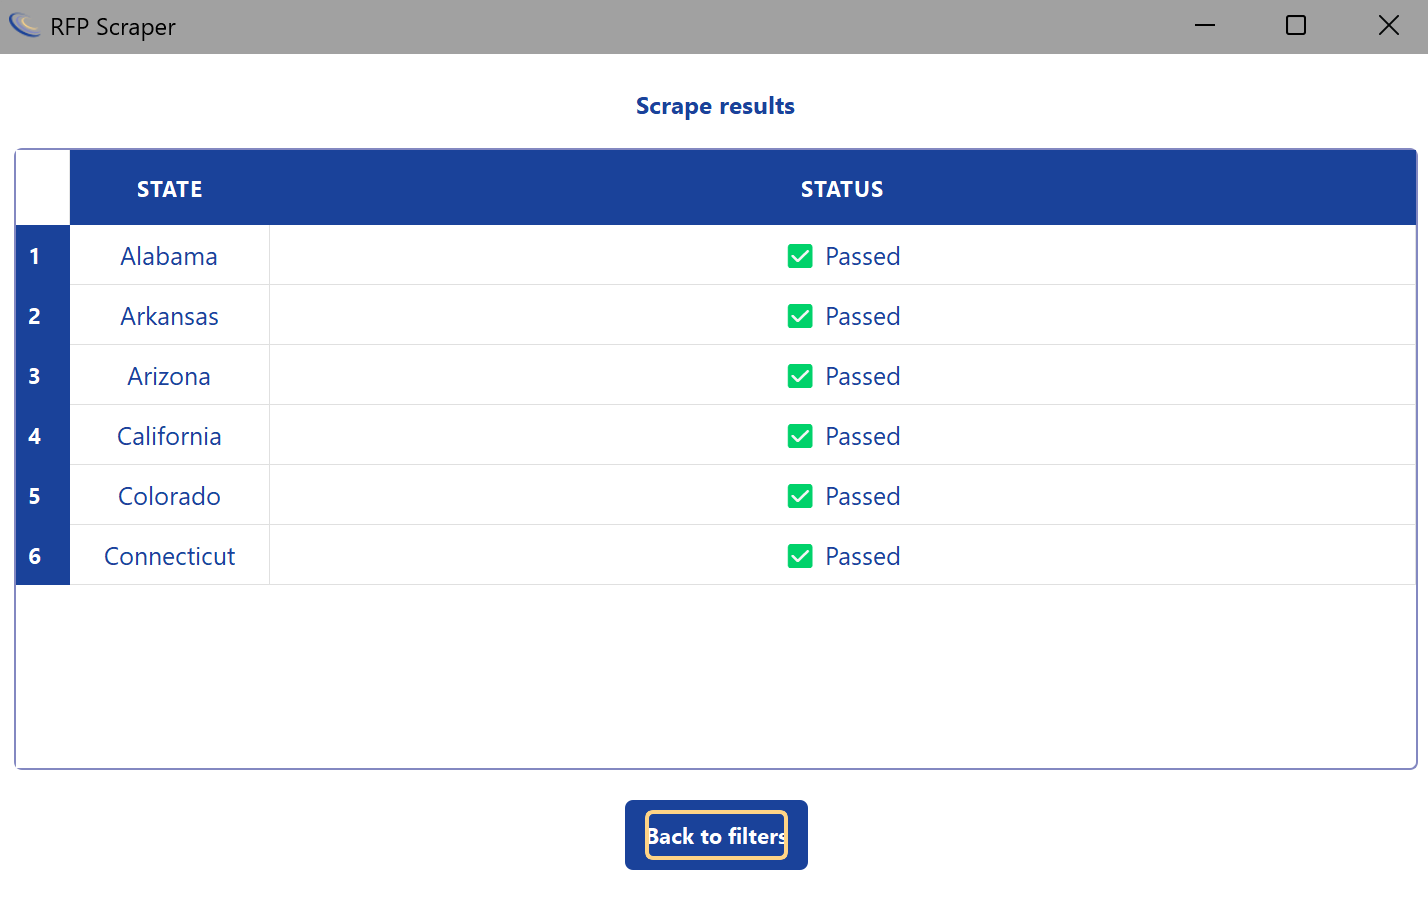
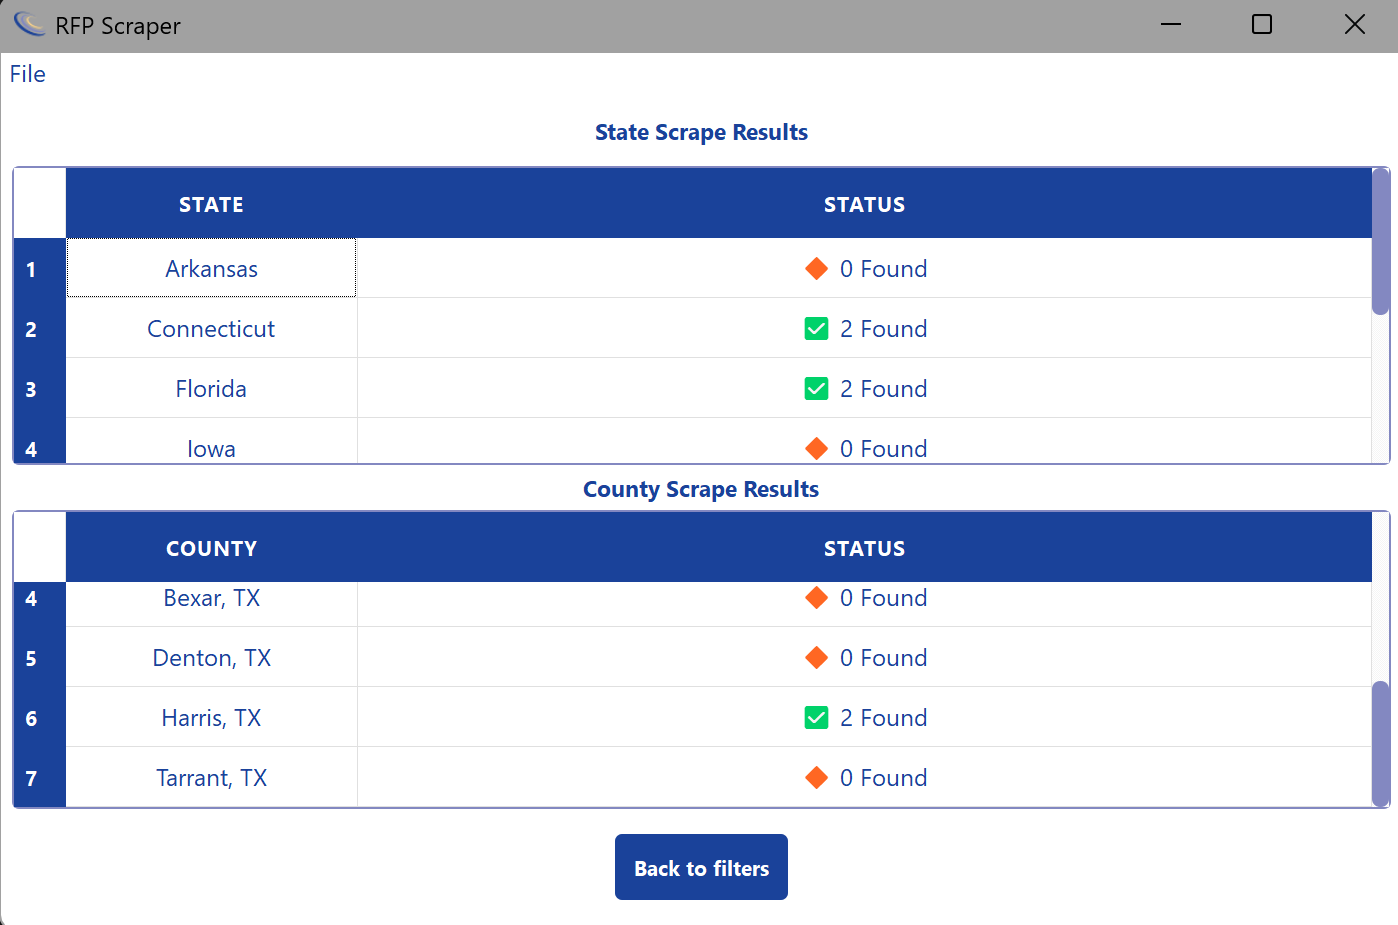
Updated README/screenshots to reflect current project state

diff --git a/README.md b/README.md
@@ -1,6 +1,6 @@
 # RFP Scraper
 
-**Tagline:** Automated RFP scraping with a simple, intuitive GUI.
+**Automated RFP scraping for all U.S. states and major counties, with a modern, user-friendly GUI.**
 
 ## Table of Contents
 
@@ -24,214 +24,133 @@
 13. [License](#license)
 14. [Contact / Support](#contact--support)
 
-## Introduction
 
-RFP Scraper is a cross-platform desktop application that automates fetching current Requests for Proposals (RFPs) from all U.S. state procurement websites (including Washington, D.C.). Its clean PyQt5 GUI lets you select states, enter keywords, track progress, and export results—all with robust retry logic, caching, and rotating logs.
+## Introduction
+RFP Scraper is a cross-platform desktop application that automates the collection of Requests for Proposals (RFPs) from all 50 U.S. states, D.C., and major counties. It features a PyQt5 GUI for keyword-driven searches, state/county selection, real-time progress, and Excel export. The codebase is modular, extensible, and robust for production use.
 
 ## Features
-
-* **Keyword-driven Searches**
-  Enter one keyword per line; the scraper runs each term against every selected portal.
-
-* **Comprehensive State Coverage**
-  Support for all 50 states plus D.C., with scrapers kept in sync and uniformly styled.
-
-* **Multi-State Selection**
-  Check any combination from a scrollable list or “Select All” to process every jurisdiction.
-
-* **Background Scraping & Cancel**
-  Runs in a separate thread so the UI remains responsive. Hit **Cancel** at any time.
-
-* **Real-time Log Tailing**
-  Watch live progress and detailed errors in the Run page; logs now rotate via a `RotatingFileHandler` to keep file size bounded.
-
-* **Normalized Export DataFrame**
-  Every scraper’s output DataFrame is standardized; Excel exports apply consistent formatting and text wrapping.
-
-* **Results Status Page**
-  Final table shows ✅ Passed or ❌ Failed per state (fail system finalized on Jul 2, 2025), with any run-level error shown at top.
-
-* **Excel Export & Caching**
-  Saves to `output/cache/` (latest five only), opens the most recent automatically, and retains hidden-ID persistence.
-
-* **Persistent Keywords & Hidden IDs**
-  Keywords in `keywords.txt`; hidden-IDs sync bug fixed so your manual hides persist across runs.
-
-* **Robust Date Parsing**
-  `parse_date_generic` corrected for inconsistent formats (Florida, capitalization fixes on the Home page, Virginia headless window sizing adjusted).
+- **Comprehensive Coverage:** Scrapes RFPs from all 50 states, D.C., and 17 major counties (with individual modules for each).
+- **Keyword Search:** Enter keywords to filter RFPs; supports multi-line input and persistent storage.
+- **State & County Selection:** Select any combination of states and counties, or use "Select All" for batch runs.
+- **Responsive GUI:** PyQt5 interface with Home, Run, and Status pages; background scraping keeps UI responsive.
+- **Progress & Logging:** Real-time log tailing, time estimates, and rotating log files for error tracking.
+- **Excel Export & Caching:** Results exported to Excel, with recent outputs cached and auto-opened on completion.
+- **Persistent Data:** Stores averages, hidden IDs, and keywords for future runs.
+- **Robust Error Handling:** Exception management, retry logic, and status reporting for each region.
+- **Extensible Architecture:** Modular scrapers for each state/county; easy to add new regions or features.
 
 ## Screenshots
 
 1. **Home Page**
    ![Home Page Screenshot](assets/screenshots/home_page.png)
-   *Enter keywords (left), select states (center), click **Run** (right).*
+   *Enter keywords (left), select states/counties (center), click **Run** (right).*
 
 2. **Run Page**
    ![Run Page Screenshot](assets/screenshots/run_page.png)
-   *Live log output streams as each scraper runs; click **Cancel** to abort.*
+   *Live log output streams as each scraper runs; click **Cancel** to abort. Time remaining counter.*
 
 3. **Status Page**
    ![Status Page Screenshot](assets/screenshots/status_page.png)
-   *✅ Passed or ❌ Failed per state. “Back to Filters” returns you to Home without clearing keywords.*
+   *✅ Passed or ❌ Failed per state/county. “Back to Filters” returns you to Home without clearing keywords.*
 
 4. **Excel Output Example**
    ![Output Example Screenshot](assets/screenshots/output_example.png)
    *Standardized columns, text wrapping, and formatted dates.*
 
 ## Installation
-
 ### Prerequisites
-
-* **Python 3.8+**
-* **OS Support:** Windows 10/11, macOS 10.15+, Linux (Ubuntu 20.04+)
+- Python 3.8+
+- OS: Windows 10/11, macOS 10.15+, Linux (Ubuntu 20.04+)
 
 ### Step-by-Step
-
-```bash
+```powershell
+# Clone and set up virtual environment
 git clone https://github.com/jasonstaker/rfp-scraper.git
 cd rfp-scraper
-python3 -m venv venv
+python -m venv venv
 
-# macOS/Linux:
-source venv/bin/activate
-# Windows PowerShell:
-# .\venv\Scripts\Activate.ps1
+# Activate (Windows)
+.\venv\Scripts\Activate.ps1
 
+# Install dependencies
 pip install -e .
 ```
-
 To launch:
-
-```bash
+```powershell
 rfp-scraper
 ```
 
-—or—
-
-```bash
-python scripts/main.py
-```
-
 ## Usage
-
-1. **Launch** the app (double-click icon or run `python main.py`).
-2. On **Home Page**:
-
-   * Enter one keyword per line.
-   * Select your states (or **Select All**).
-   * Click **Run**.
-3. **Run Page**:
-
-   * Watch live, rotating logs tail into the UI.
-   * Click **Cancel** anytime to stop and return home.
-4. **Status Page**:
-
-   * View ✅ Passed / ❌ Failed statuses.
-   * Click **Back to Filters** to adjust without clearing keywords.
-5. The latest Excel export (standardized DataFrame) lives in `output/cache/` and auto-opens on success.
+1. Launch the app.
+2. Enter keywords (one per line).
+3. Select states and/or counties.
+4. Click **Run** to start scraping.
+5. View progress and logs in real time.
+6. Review results and export to Excel.
 
 ## GUI Overview
-
-### Main Window
-
-* **QStackedWidget** for seamless Home → Run → Status navigation.
-* Opens at half your monitor’s width × height.
-
-### Home Page
-
-* **Keyword Editor:** Multi-line `CodeEditor` (loads/saves `keywords.txt`).
-* **State List:** Scrollable `QListWidget` with “Select All” toggle.
-* **Run Button:** Starts the background scrape worker.
-
-### Run Page
-
-* **Log Output:** Tails `output/scraper.log` (now managed by a rotating handler).
-* **Cancel Button:** Aborts worker and returns to Home.
-
-### Status Page
-
-* **Results Table:** Two columns—**State** & **Status** with icons.
-* **Error Display:** Show any scraper-level exception at top.
-* **Back to Filters:** Returns to Home preserving keyword list.
+- **Home Page:** Keyword editor, state/county selection, run button.
+- **Run Page:** Log output, time-left indicator, cancel button.
+- **Status Page:** Results table, error display, back button.
 
 ## Configuration
-
-* **`src/config.py`**
-
-  * `KEYWORDS_FILE`: path to `keywords.txt`
-  * `CACHE_DIR`: holds last five Excel exports
-  * `LOG_FILE`: path to rotating `scraper.log`
-  * `STATE_RFP_URL_MAP`: state⇒portal URL mapping
-  * `AVAILABLE_STATES`: ordered list for the UI
+- All configuration is managed in `src/config.py`.
+- Persistent data (keywords, averages, hidden IDs) stored in `persistence/`.
+- Log files and Excel exports stored in `output/`.
 
 ## Project Structure
-
-```text
+```
 rfp-scraper/
+├── assets/                # Logos, styles, screenshots
+├── output/                # Logs and Excel exports
+├── persistence/           # Persistent data (averages, hidden IDs, keywords)
+├── scripts/               # Entry point
+├── src/
+│   ├── config.py          # Configuration
+│   ├── scraper/
+│   │   ├── core/          # Base scraper classes, errors
+│   │   ├── exporters/     # Excel exporter
+│   │   ├── scrapers/
+│   │   │   ├── states/    # 48 states + DC
+│   │   │   ├── counties/  # 44 major counties
+│   │   └── utils/         # Data/text/date utilities
+│   ├── ui/                # GUI (main window, pages, scaling)
+├── tests/                 # Unit tests
 ├── README.md
 ├── LICENSE
-├── scripts/
-│   └── main.py
-├── assets/
-│   └── screenshots/
-├── output/
-│   ├── cache/                # Latest 5 Excel exports
-│   └── scraper.log           # RotatingFileHandler
-├── persistence/
-│   └── hidden_ids.json
-├── src/
-│   ├── config.py
-│   ├── ui/
-│   │   ├── main_window.py
-│   │   └── pages/
-│   ├── scraper/
-│   │   ├── config/
-│   │   ├── core/
-│   │   ├── exporters/
-│   │   ├── scrapers/         # 50 states + DC, uniformly formatted
-│   │   └── utils/
-│   └── runner.py
-└── tests/
-    └── test_*.py
+├── pyproject.toml
 ```
 
 ## Dependencies
-
-* requests
-* selenium
-* pandas
-* beautifulsoup4
-* webdriver-manager
-* openpyxl
-* xlsxwriter
-* lxml
-* xlrd
-* pillow
-* pyqt5
+- requests
+- selenium
+- pandas
+- beautifulsoup4
+- webdriver-manager
+- openpyxl
+- xlsxwriter
+- lxml
+- xlrd
+- pillow
+- pyqt5
 
 ## Testing
-
-```bash
+```powershell
 pytest
 ```
-
-Covers core logic, utilities, and basic runner integration. GUI behavior remains manual for now.
+Covers core logic, utilities, and basic runner integration. GUI testing is manual.
 
 ## Roadmap
-
-* **Progress bars** per state scraping
-* **Auto-complete keyword suggestions**
-* **CSV/PDF export** alongside Excel
-* **Extended GUI improvements** based on feedback
+- Progress bars per state/county
+- Auto-complete keyword suggestions
+- CSV/PDF export options
+- Extended GUI improvements
 
 ## Contributing
-
-We’re currently accepting focused, high-quality contributions—please email ideas or PRs.
+Contributions are welcome! Please submit focused, high-quality PRs or email ideas.
 
 ## License
-
 MIT License — see [LICENSE](LICENSE).
 
 ## Contact / Support
-
 **Author:** Jason Staker ([jason.staker@yahoo.com](mailto:jason.staker@yahoo.com))
